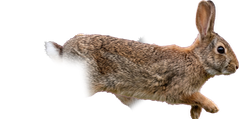
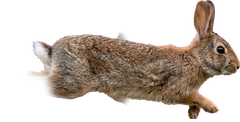
All three frames are ready — and Nano Banana matched the fur perfectly on the upright pose:
**What's live on Spring now:**
- **Petals**: just 6 lone petals now, drifting down like feathers — glide right, stall, glide left, rocking the whole way (no more flower blizzard)
- **Rabbit rear fixed**: the gathered frame keeps the full rump and tail
- **Upright pose** (your reference style): rabbits now rear up on their haunches facing the camera for their mid-pause look-arounds
- **Turns**: exactly as you suggested — the rabbit hops to a stop, **sits up facing you, and drops back down facing the other way**. The mirror flip happens while it's front-on, so the paper-flip is completely gone

Take a look at the Spring realm on your preview and tell me how the motion feels. Possible tweaks if needed: sit-up duration (currently ~1.2s each, twice per patrol), petal count/speed, or the upright rabbit's size (currently ~1.7× the hop height, matching real proportions).

Meanwhile, from the code inspection you asked for earlier — quick status: I fixed the one real error found (a duplicate translation key). The remaining items are cosmetic (unused `catch` variables, some list-key warnings) plus ~50 accumulated test files from old testing sessions of which several are stale. I'd suggest one cleanup pass + a full regression test when you're done with scene polish — just say when.

Changed region(s): [[0.1167, 0.0, 0.9625, 0.9836], [0.9625, 0.3934, 1.0, 0.6148]]

diff --git a/frontend/src/index.css b/frontend/src/index.css
@@ -1356,9 +1356,8 @@ body {
   29.2%{ transform: translateX(19.8vw) translateY(-7px) scaleX(1); }
   30.6%{ transform: translateX(22vw) translateY(0) scaleX(1); }
   47%{ transform: translateX(22vw) translateY(0) scaleX(1); }
-  48%{ transform: translateX(22vw) translateY(-6px) scaleX(0.6); }
-  48.5%{ transform: translateX(22vw) translateY(-7px) scaleX(0.05); }
-  49%{ transform: translateX(22vw) translateY(-6px) scaleX(-0.6); }
+  48.4%{ transform: translateX(22vw) translateY(0) scaleX(1); }
+  48.6%{ transform: translateX(22vw) translateY(0) scaleX(-1); }
   50%{ transform: translateX(22vw) translateY(0) scaleX(-1); }
   51.4%{ transform: translateX(19.8vw) translateY(-7px) scaleX(-1); }
   52.8%{ transform: translateX(17.6vw) translateY(0) scaleX(-1); }
@@ -1372,9 +1371,8 @@ body {
   79.2%{ transform: translateX(2.2vw) translateY(-7px) scaleX(-1); }
   80.6%{ transform: translateX(0) translateY(0) scaleX(-1); }
   97%{ transform: translateX(0) translateY(0) scaleX(-1); }
-  98.6%{ transform: translateX(0) translateY(-6px) scaleX(-0.6); }
-  99%{ transform: translateX(0) translateY(-7px) scaleX(-0.05); }
-  99.4%{ transform: translateX(0) translateY(-6px) scaleX(0.6); }
+  98.4%{ transform: translateX(0) translateY(0) scaleX(-1); }
+  98.6%{ transform: translateX(0) translateY(0) scaleX(1); }
   100%{ transform: translateX(0) translateY(0) scaleX(1); }
 }
 @keyframes ffRabbitPatrolL{
@@ -1391,9 +1389,8 @@ body {
   29.2%{ transform: translateX(-19.8vw) translateY(-7px) scaleX(-1); }
   30.6%{ transform: translateX(-22vw) translateY(0) scaleX(-1); }
   47%{ transform: translateX(-22vw) translateY(0) scaleX(-1); }
-  48%{ transform: translateX(-22vw) translateY(-6px) scaleX(-0.6); }
-  48.5%{ transform: translateX(-22vw) translateY(-7px) scaleX(-0.05); }
-  49%{ transform: translateX(-22vw) translateY(-6px) scaleX(0.6); }
+  48.4%{ transform: translateX(-22vw) translateY(0) scaleX(-1); }
+  48.6%{ transform: translateX(-22vw) translateY(0) scaleX(1); }
   50%{ transform: translateX(-22vw) translateY(0) scaleX(1); }
   51.4%{ transform: translateX(-19.8vw) translateY(-7px) scaleX(1); }
   52.8%{ transform: translateX(-17.6vw) translateY(0) scaleX(1); }
@@ -1407,9 +1404,8 @@ body {
   79.2%{ transform: translateX(-2.2vw) translateY(-7px) scaleX(1); }
   80.6%{ transform: translateX(0) translateY(0) scaleX(1); }
   97%{ transform: translateX(0) translateY(0) scaleX(1); }
-  98%{ transform: translateX(0) translateY(-6px) scaleX(0.6); }
-  98.5%{ transform: translateX(0) translateY(-7px) scaleX(0.05); }
-  99%{ transform: translateX(0) translateY(-6px) scaleX(-0.6); }
+  98.4%{ transform: translateX(0) translateY(0) scaleX(1); }
+  98.6%{ transform: translateX(0) translateY(0) scaleX(-1); }
   100%{ transform: translateX(0) translateY(0) scaleX(-1); }
 }
 /* Rabbit gait + sniff: body stretches at each leap apex (legs out) and
@@ -2317,19 +2313,90 @@ body.ff-badge-open .ff-theme-scene * {
   0.6%,2.2%,3.4%,5%,6.2%,7.8%,25.6%,27.2%,28.4%,30%,50.6%,52.2%,53.4%,55%,56.2%,57.8%,75.6%,77.2%,78.4%,80%{ opacity:1; }
 }
 @keyframes ffRabbitGround{
-  0%,0.4%,2.4%,3.2%,5.2%,6%,8%,25.4%,27.4%,28.2%,30.2%,50.4%,52.4%,53.2%,55.2%,56%,58%,75.4%,77.4%,78.2%,80.2%,100%{ opacity:1; }
-  0.6%,2.2%,3.4%,5%,6.2%,7.8%,25.6%,27.2%,28.4%,30%,50.6%,52.2%,53.4%,55%,56.2%,57.8%,75.6%,77.2%,78.4%,80%{ opacity:0; }
+  0%{ opacity:0; }
+  2.3%{ opacity:0; }
+  2.5%{ opacity:1; }
+  3.3%{ opacity:1; }
+  3.5%{ opacity:0; }
+  5.1%{ opacity:0; }
+  5.3%{ opacity:1; }
+  6.1%{ opacity:1; }
+  6.3%{ opacity:0; }
+  7.9%{ opacity:0; }
+  8.1%{ opacity:1; }
+  12.2%{ opacity:1; }
+  12.8%{ opacity:0; }
+  18.8%{ opacity:0; }
+  19.4%{ opacity:1; }
+  25.5%{ opacity:1; }
+  25.7%{ opacity:0; }
+  27.3%{ opacity:0; }
+  27.5%{ opacity:1; }
+  28.3%{ opacity:1; }
+  28.5%{ opacity:0; }
+  30.1%{ opacity:0; }
+  30.3%{ opacity:1; }
+  47.0%{ opacity:1; }
+  47.6%{ opacity:0; }
+  50.2%{ opacity:0; }
+  50.45%{ opacity:1; }
+  50.6%{ opacity:1; }
+  50.8%{ opacity:0; }
+  52.3%{ opacity:0; }
+  52.5%{ opacity:1; }
+  53.3%{ opacity:1; }
+  53.5%{ opacity:0; }
+  55.1%{ opacity:0; }
+  55.3%{ opacity:1; }
+  56.1%{ opacity:1; }
+  56.3%{ opacity:0; }
+  57.9%{ opacity:0; }
+  58.1%{ opacity:1; }
+  63.0%{ opacity:1; }
+  63.6%{ opacity:0; }
+  69.8%{ opacity:0; }
+  70.4%{ opacity:1; }
+  75.5%{ opacity:1; }
+  75.7%{ opacity:0; }
+  77.3%{ opacity:0; }
+  77.5%{ opacity:1; }
+  78.3%{ opacity:1; }
+  78.5%{ opacity:0; }
+  80.1%{ opacity:0; }
+  80.3%{ opacity:1; }
+  96.9%{ opacity:1; }
+  97.5%{ opacity:0; }
+  100%{ opacity:0; }
 }
-/* Periodic sit-up: mid-pause the rabbit rears up on its haunches for a look
-   around (twice per patrol loop), pivoting off its rump. */
-@keyframes ffRabbitSitUp{
-  0%,12%{ transform: rotate(0deg); }
-  13.2%{ transform: rotate(-32deg); }
-  15.5%{ transform: rotate(-28deg); }
-  18%{ transform: rotate(-32deg); }
-  19.2%,63%{ transform: rotate(0deg); }
-  64.2%{ transform: rotate(-32deg); }
-  66.5%{ transform: rotate(-28deg); }
-  69%{ transform: rotate(-32deg); }
-  70.2%,100%{ transform: rotate(0deg); }
+
+/* Scenery mode: the foreground melts away so the realm can shine. */
+.ff-scenery-fade { transition: opacity 0.6s ease; }
+.ff-scenery-hide { opacity: 0; pointer-events: none; }
+
+/* Spring petals: feather-fall — glide right, stall, glide left, rocking the
+   whole way down like a feather on still air. */
+@keyframes ffPetalFeather{
+  0%   { transform: translate(0, -8vh) rotate(-14deg); opacity: 0; }
+  6%   { opacity: 0.8; }
+  16%  { transform: translate(7vw, 12vh) rotate(16deg); }
+  32%  { transform: translate(-4vw, 30vh) rotate(-18deg); }
+  48%  { transform: translate(8vw, 48vh) rotate(16deg); }
+  64%  { transform: translate(-4vw, 66vh) rotate(-18deg); }
+  80%  { transform: translate(7vw, 84vh) rotate(14deg); }
+  94%  { opacity: 0.65; }
+  100% { transform: translate(-2vw, 106vh) rotate(-12deg); opacity: 0; }
+}
+
+/* Upright frame: shows during the two mid-pause sit-ups AND through each
+   turn — the direction flip happens while the rabbit faces the camera. */
+@keyframes ffRabbitUpright{
+  0%{ opacity:1; }
+  0.6%,11.9%{ opacity:0; }
+  12.5%,19.1%{ opacity:1; }
+  19.7%,46.9%{ opacity:0; }
+  47.5%,50.1%{ opacity:1; }
+  50.7%,62.9%{ opacity:0; }
+  63.5%,69.9%{ opacity:1; }
+  70.5%,96.9%{ opacity:0; }
+  97.5%,100%{ opacity:1; }
 }

diff --git a/frontend/src/components/scenes/SeasonScene.jsx b/frontend/src/components/scenes/SeasonScene.jsx
@@ -58,7 +58,7 @@ export const SEASONS = {
   spring: {
     grad: "linear-gradient(180deg,#F3FBEF 0%,#FBEFF5 55%,#EFF7E6 100%)",
     tree: "/spring-tree.png", treeBig: true, ground: "/spring-ground2.png", decorLeft: "/spring-decor.png", decorLeftBig: true, rabbits: "/spring-rabbit.png",
-    items: ["/blossom-pink.png", "/blossom-white.png", "/petal-pink.png"], falling: true, hint: "#D46A9F",
+    items: ["/blossom-pink.png", "/blossom-white.png", "/petal-pink.png"], falling: true, petalFeather: true, hint: "#D46A9F",
   },
   summer: {
     grad: "linear-gradient(180deg,#8FC4E8 0%,#A9D3EC 26%,#F7D9A8 40%,#FFBE7D 45%,#5FB8D9 62%,#F7E3B0 62%,#EDD49B 100%)",
@@ -166,22 +166,22 @@ export function SeasonScene({ theme, cfg, heistEpoch = 0 }) {
       ))}
       {cfg.decorLeft && <img src={cfg.decorLeft} alt="" className={`absolute bottom-0 left-0 object-contain opacity-[0.32] sm:left-[2%] ${cfg.decorLeftZ || ""} ${cfg.decorLeftW ? cfg.decorLeftW : (cfg.decorLeftBig ? "w-[92vw] max-w-none sm:w-[48vw]" : "w-42vw] max-w-sm sm:w-[26vw]")}`} style={cfg.decorLeftOpacity ? { opacity: cfg.decorLeftOpacity } : undefined} />}
       {cfg.rabbits && (<>
-        {/* two tiny cottontails: legs gathered on the ground, stretched only
-            mid-hop, rearing up on their haunches for a look around mid-pause */}
+        {/* two tiny cottontails, three photo frames each: legs gathered on
+            the ground, stretched mid-hop, and standing UPRIGHT for mid-pause
+            look-arounds and turns (the mirror flip hides behind the
+            camera-facing pose, so turning reads as sit-up-spin-drop) */}
         <div className="absolute bottom-[2.5%] left-[14%] z-[3]" style={{ animation: "ffRabbitPatrol 18s linear infinite" }} data-testid="spring-rabbit-1">
-          <div style={{ animation: "ffRabbitSitUp 18s linear infinite", transformOrigin: "62% 100%" }}>
-            <div className="relative" style={{ animation: "ffRabbitGait 18s linear infinite", transformOrigin: "50% 100%" }}>
-              <img src="/spring-rabbit-sit.png" alt="" className="w-10 opacity-95 sm:w-12" style={{ animation: "ffRabbitGround 18s linear infinite" }} />
-              <img src={cfg.rabbits} alt="" className="absolute inset-0 w-10 opacity-95 sm:w-12" style={{ animation: "ffRabbitAir 18s linear infinite" }} />
-            </div>
+          <div className="relative" style={{ animation: "ffRabbitGait 18s linear infinite", transformOrigin: "50% 100%" }}>
+            <img src="/spring-rabbit-sit.png" alt="" className="w-10 opacity-95 sm:w-12" style={{ animation: "ffRabbitGround 18s linear infinite" }} />
+            <img src={cfg.rabbits} alt="" className="absolute inset-0 w-10 opacity-95 sm:w-12" style={{ animation: "ffRabbitAir 18s linear infinite" }} />
+            <img src="/spring-rabbit-up.png" alt="" className="absolute bottom-0 left-1/2 opacity-95" style={{ width: "30%", transform: "translateX(-50%)", animation: "ffRabbitUpright 18s linear infinite" }} />
           </div>
         </div>
         <div className="absolute bottom-[5%] right-[30%] z-[3]" style={{ animation: "ffRabbitPatrolL 20s linear infinite", animationDelay: "2.5s" }} data-testid="spring-rabbit-2">
-          <div style={{ animation: "ffRabbitSitUp 20s linear infinite", animationDelay: "2.5s", transformOrigin: "62% 100%" }}>
-            <div className="relative" style={{ animation: "ffRabbitGait 20s linear infinite", animationDelay: "2.5s", transformOrigin: "50% 100%" }}>
-              <img src="/spring-rabbit-sit.png" alt="" className="w-8 opacity-90 sm:w-10" style={{ animation: "ffRabbitGround 20s linear infinite", animationDelay: "2.5s" }} />
-              <img src={cfg.rabbits} alt="" className="absolute inset-0 w-8 opacity-90 sm:w-10" style={{ animation: "ffRabbitAir 20s linear infinite", animationDelay: "2.5s" }} />
-            </div>
+          <div className="relative" style={{ animation: "ffRabbitGait 20s linear infinite", animationDelay: "2.5s", transformOrigin: "50% 100%" }}>
+            <img src="/spring-rabbit-sit.png" alt="" className="w-8 opacity-90 sm:w-10" style={{ animation: "ffRabbitGround 20s linear infinite", animationDelay: "2.5s" }} />
+            <img src={cfg.rabbits} alt="" className="absolute inset-0 w-8 opacity-90 sm:w-10" style={{ animation: "ffRabbitAir 20s linear infinite", animationDelay: "2.5s" }} />
+            <img src="/spring-rabbit-up.png" alt="" className="absolute bottom-0 left-1/2 opacity-90" style={{ width: "30%", transform: "translateX(-50%)", animation: "ffRabbitUpright 20s linear infinite", animationDelay: "2.5s" }} />
           </div>
         </div>
       </>)}
@@ -230,7 +230,13 @@ export function SeasonScene({ theme, cfg, heistEpoch = 0 }) {
       </>)}
       {cfg.moon && <div className="absolute top-[6%] left-[24%] z-[1] aspect-square w-[24vw] rounded-full sm:left-[27%] sm:w-[14vw]" style={{ background: "radial-gradient(circle at 42% 40%, #FCF4DA 0%, #EDDCAB 60%, #D6C084 100%)", boxShadow: "0 0 90px 34px rgba(255,240,205,0.38), 0 0 44px 14px rgba(255,246,222,0.55)", opacity: 0.6 }} />}
       {cfg.owl && <img src={cfg.owl} alt="" className="absolute top-[13%] left-[30%] z-[2] w-[13vw] max-w-[150px] object-contain opacity-[0.72] sm:w-[9vw]" />}
-      {cfg.falling && FALLING_SPRITES.map((l, i) => {
+      {cfg.falling && cfg.petalFeather && FALLING_SPRITES.slice(0, 6).map((l, i) => (
+        // a few lone petals drifting down like feathers: lazy side-to-side
+        // glides with a rocking tilt, not a straight fall
+        <img key={`petal-${l.left}-${i}`} src="/petal-pink.png" alt="" className="absolute top-0 opacity-50"
+          style={{ left: l.left, width: l.size * 0.62, height: l.size * 0.62, animation: `ffPetalFeather ${l.dur * 2.4}s ease-in-out ${l.delay}s infinite` }} />
+      ))}
+      {cfg.falling && !cfg.petalFeather && FALLING_SPRITES.map((l, i) => {
         const src = cfg.items[i % cfg.items.length];
         const s = src.includes("petal") ? l.size * 0.58 : l.size; // lone petals fall smaller than whole blossoms
         return (

diff --git a/frontend/src/pages/Home.jsx b/frontend/src/pages/Home.jsx
@@ -3,7 +3,7 @@ import { Link, useNavigate } from "react-router-dom";
 import axios from "axios";
 import { motion, AnimatePresence } from "framer-motion";
 import { toast } from "sonner";
-import { Dices, Search, ShoppingBag, Fuel, Coffee, IceCream, Clock, LocateFixed, ArrowDownWideNarrow, Flame, Users, Beer, Trophy, UtensilsCrossed, ChevronDown, Mountain, Tent, Stamp, Globe2, Sparkles, Crown, BookOpen } from "lucide-react";
+import { Dices, Search, ShoppingBag, Fuel, Coffee, IceCream, Clock, LocateFixed, ArrowDownWideNarrow, Flame, Users, Beer, Trophy, UtensilsCrossed, ChevronDown, Mountain, Tent, Stamp, Globe2, Sparkles, Crown, BookOpen, Eye, EyeOff } from "lucide-react";
 import Filters from "../components/Filters";
 import { RestaurantCard } from "../components/RestaurantCard";
 import BecomeSponsorDialog from "../components/BecomeSponsorDialog";
@@ -213,6 +213,24 @@ export default function Home() {
     // eslint-disable-next-line react-hooks/exhaustive-deps
   }, []);
   const [showGuided, setShowGuided] = useState(true);
+
+  // SCENERY MODE: fades every card/pill/word below the header so the realm
+  // (heists, companions, sailboat…) can be admired. Session-only by design.
+  const [scenery, setScenery] = useState(false);
+  const toggleScenery = () => {
+    setScenery((s) => {
+      const on = !s;
+      if (on) {
+        try {
+          if (!localStorage.getItem("ff_scenery_tip")) {
+            localStorage.setItem("ff_scenery_tip", "1");
+            toast(t("Enjoy the view — tap the eye to bring everything back"));
+          }
+        } catch (e) { /* storage unavailable */ }
+      }
+      return on;
+    });
+  };
   const [muted, setMuted] = useState(() => {
     try { return localStorage.getItem("ff_muted") === "1"; } catch { return false; }
   });
@@ -1037,6 +1055,21 @@ export default function Home() {
         setSponsorOpen={setSponsorOpen}
       />
 
+      {/* SCENERY MODE eye: floats above everything; the wrapper below fades */}
+      <button
+        onClick={toggleScenery}
+        data-testid="scenery-toggle"
+        aria-label={scenery ? "Bring the interface back" : "Hide the interface to enjoy the scenery"}
+        className={`fixed bottom-5 right-5 z-[75] grid h-11 w-11 place-items-center rounded-full border backdrop-blur-sm transition-all duration-300 ${scenery
+          ? "border-white/30 bg-black/30 text-white/80 opacity-60 hover:opacity-100"
+          : light
+          ? "border-[#E2E4E7] bg-white/85 text-[#6B7075] shadow-sm hover:text-[#0E0E0E]"
+          : "border-white/15 bg-black/40 text-white/60 hover:text-white"}`}
+      >
+        {scenery ? <EyeOff className="h-5 w-5" /> : <Eye className="h-5 w-5" />}
+      </button>
+
+      <div className={`ff-scenery-fade ${scenery ? "ff-scenery-hide" : ""}`} data-testid="scenery-wrap">
       <div className="relative z-40">
         <SponsorMarquee light={light} onSponsor={() => setSponsorOpen(true)} />
       </div>
@@ -1506,6 +1539,7 @@ export default function Home() {
       <HomeInfoSections light={light} onSponsor={() => setSponsorOpen(true)} />
 
       <HomeFooter light={light} />
+      </div>
     </div>
   );
 }

diff --git a/frontend/src/i18n/i18n.js b/frontend/src/i18n/i18n.js
@@ -685,6 +685,7 @@ export const ES = {
   "W": "V",
   "L": "D",
   "vs": "vs",
+  "Enjoy the view — tap the eye to bring everything back": "Disfruta la vista — toca el ojo para traerlo todo de vuelta",
   "Run it back": "Otra ronda",
   "Demand a rematch": "Exige la revancha",
   "Dealing a new hand…": "Repartiendo una nueva mano…",

diff --git a/scripts/gen_rabbit_upright.py b/scripts/gen_rabbit_upright.py
@@ -1,0 +1,49 @@
+#!/usr/bin/env python3
+"""Generate the upright 'sitting up' rabbit frame with Nano Banana, using the
+existing side-profile rabbit as the reference so fur/color match, then key
+the white background to transparency."""
+import asyncio
+import base64
+import os
+import sys
+from dotenv import load_dotenv
+
+load_dotenv("/app/backend/.env")
+
+from emergentintegrations.llm.chat import LlmChat, UserMessage, ImageContent  # noqa: E402
+
+
+async def main():
+    with open("/app/frontend/public/spring-rabbit.png", "rb") as f:
+        ref_b64 = base64.b64encode(f.read()).decode("utf-8")
+
+    chat = LlmChat(
+        api_key=os.getenv("EMERGENT_LLM_KEY"),
+        session_id="rabbit-upright-sprite",
+        system_message="You are an expert wildlife sprite artist.",
+    )
+    chat.with_model("gemini", "gemini-3.1-flash-image-preview").with_params(modalities=["image", "text"])
+
+    msg = UserMessage(
+        text=(
+            "Using the exact same rabbit from this reference photo (same fur colors, "
+            "same breed, same photorealistic style), create a full-body image of it "
+            "STANDING FULLY UPRIGHT on its hind legs like an alert prairie-dog pose: "
+            "body vertical, head up, ears tall and erect, front paws tucked against its "
+            "chest, facing the camera directly. Whole rabbit visible including hind feet. "
+            "Centered on a PURE WHITE background, no shadow, no other objects."
+        ),
+        file_contents=[ImageContent(ref_b64)],
+    )
+    text, images = await chat.send_message_multimodal_response(msg)
+    print("text:", (text or "")[:120])
+    if not images:
+        print("NO IMAGE RETURNED")
+        sys.exit(1)
+    raw = base64.b64decode(images[0]["data"])
+    with open("/tmp/rabbit_up_raw.png", "wb") as f:
+        f.write(raw)
+    print("saved /tmp/rabbit_up_raw.png", len(raw), "bytes")
+
+
+asyncio.run(main())
